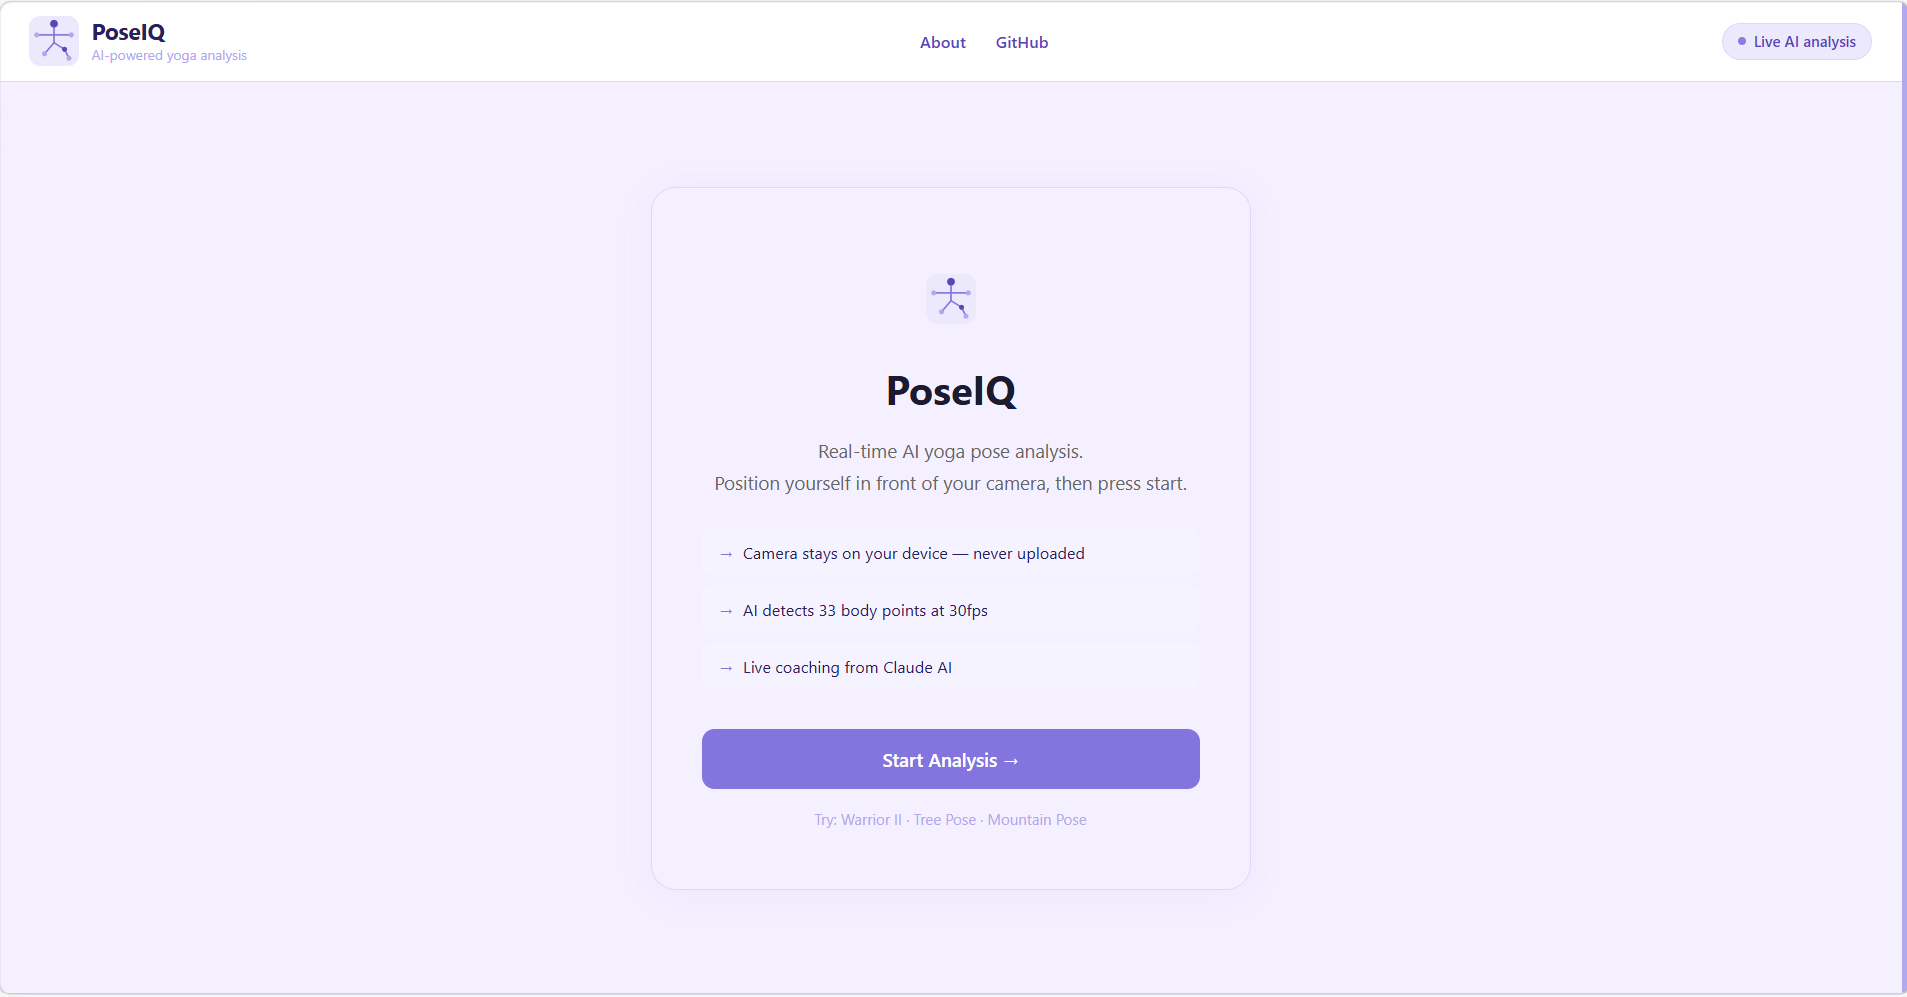
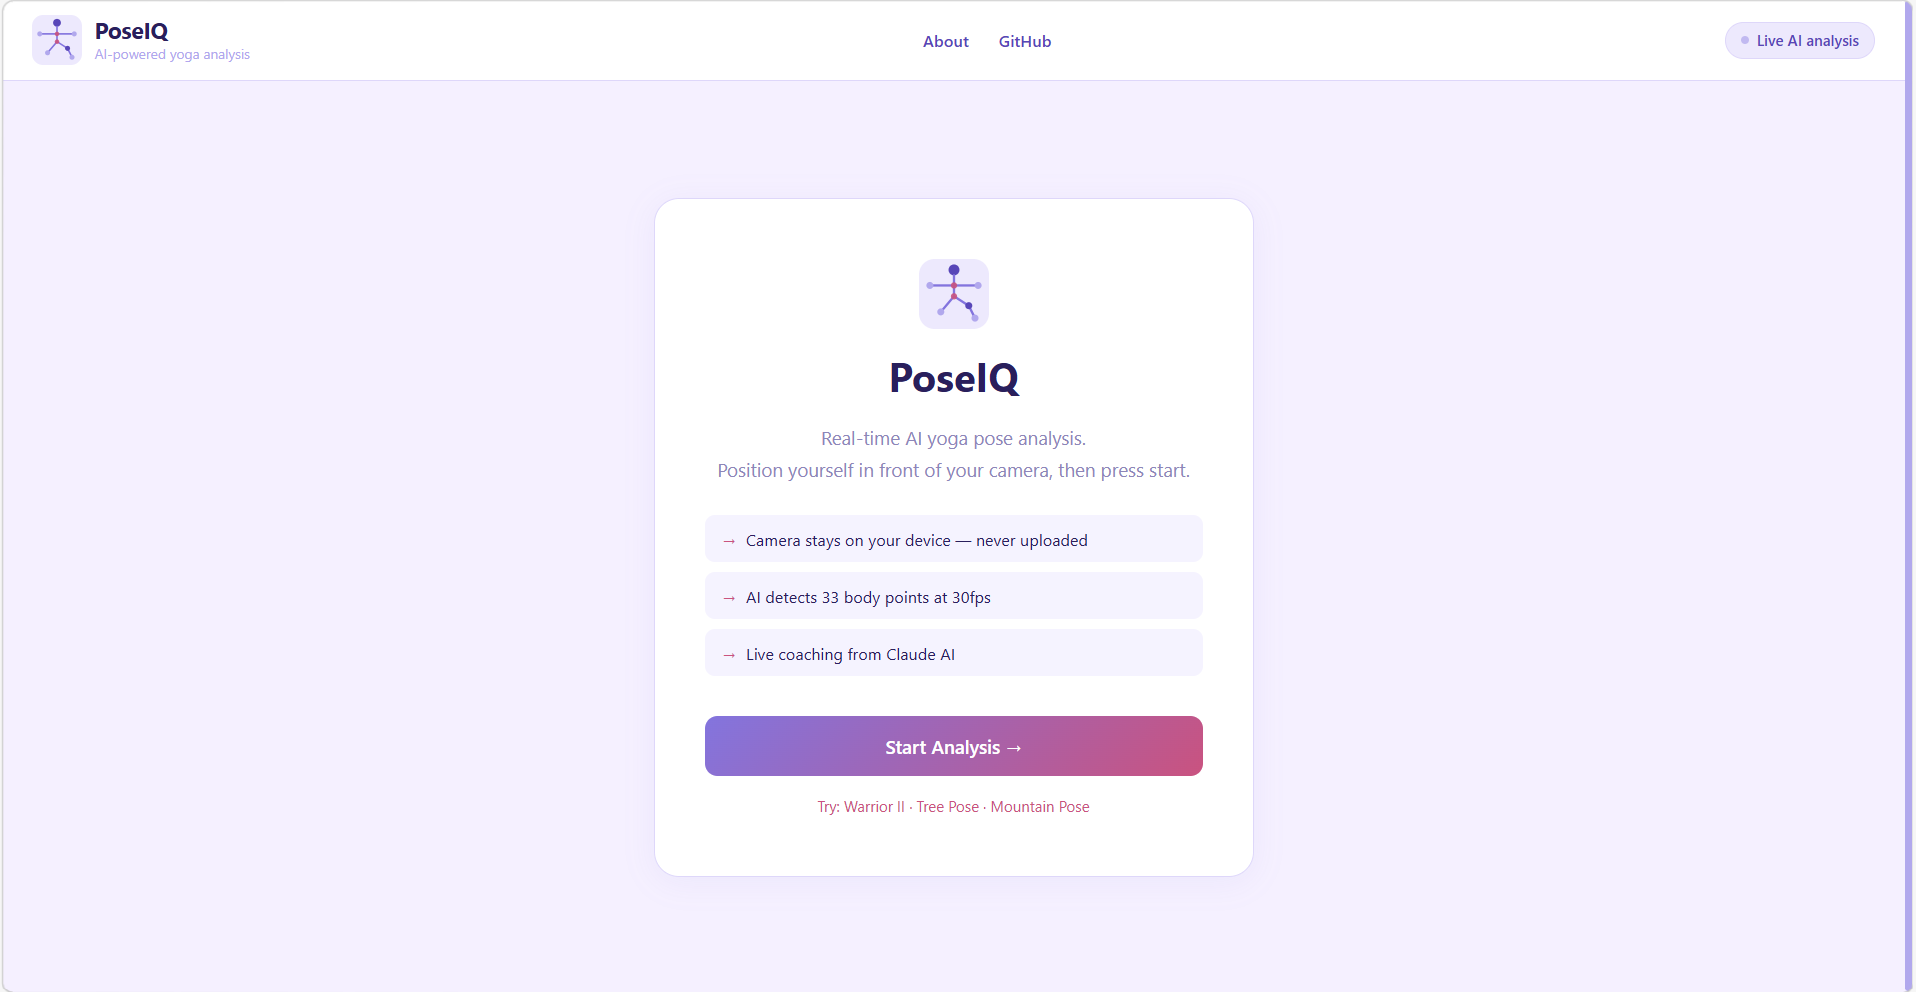
docs: add live analysis screenshot for README

diff --git a/README.md b/README.md
@@ -22,6 +22,16 @@ PoseIQ uses your webcam and Google's MediaPipe AI to analyze your yoga poses in 
 
 ---
 
+## Demo
+
+> 📸 *Screenshot — Warrior II analysis with live AI coaching*
+
+| Start screen | Live analysis |
+|---|---|
+| ![Start screen](public/screenshot-start.png) | ![Live analysis](public/screenshot-live.png) |
+
+---
+
 ## Features
 
 - **Real-time pose detection** — MediaPipe tracks 33 body keypoints at 30fps directly in the browser
